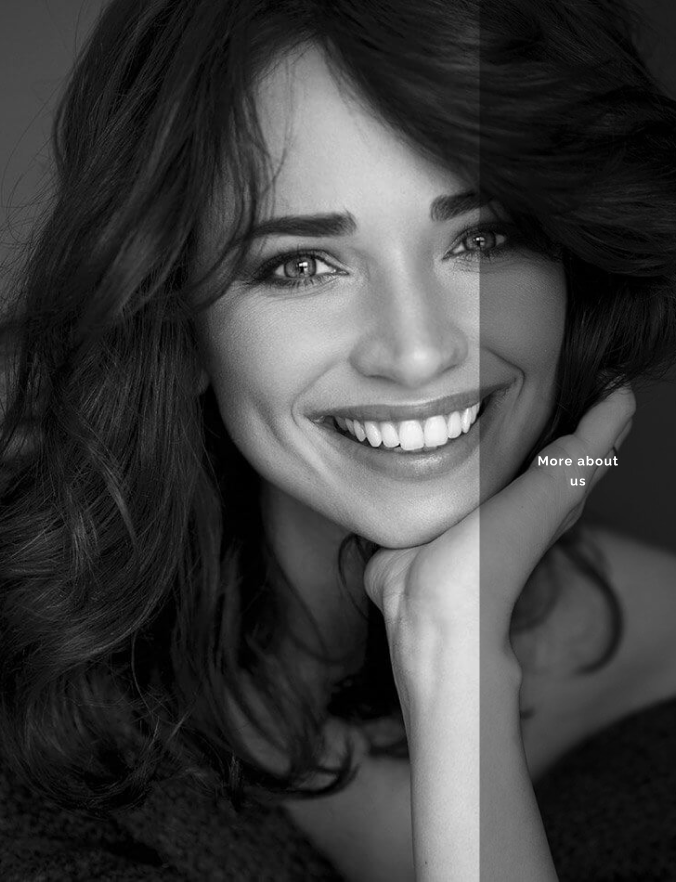
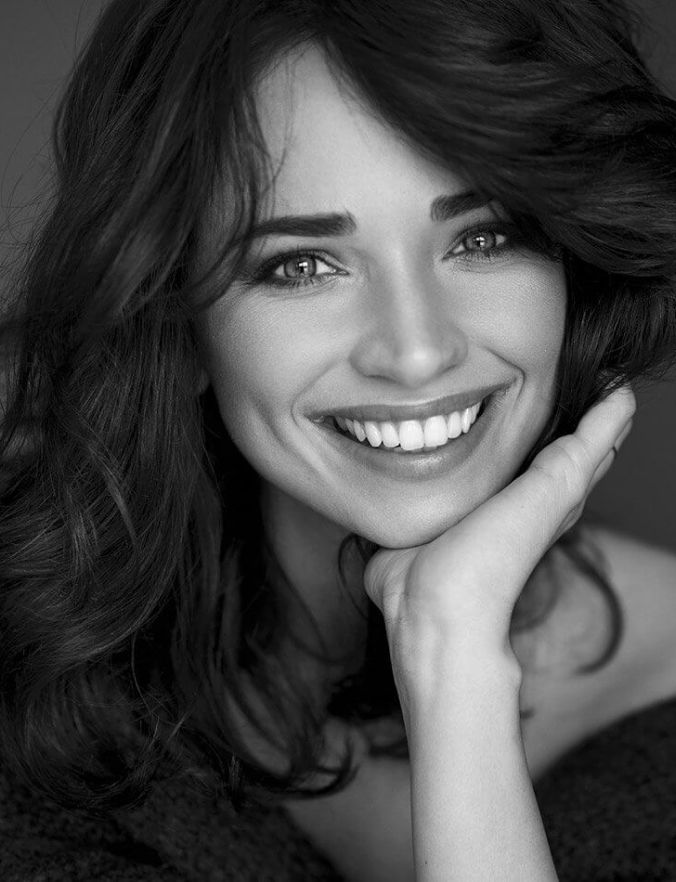
ourpractice section completed

Changed region(s): [[0.6834, 0.2143, 1.0, 1.0]]

diff --git a/index.html b/index.html
@@ -495,6 +495,62 @@
     </section>
     <!-- OUR-OFFER SECTION END -->
 
+    <!-- PRACTICE-SECTION START -->
+    <section class="ourpractice">
+      <div class="container">
+        <div class="row g-4 align-items-center">
+          <div class="col-lg-7">
+            <div class="ourpractice-details">
+              <div class="ourpractice-header">
+                <h5 class="italic-text">Our Practice</h5>
+                <h2 class="display-5 fw-bold icontitle">
+                  What Sets Us Apart
+                </h2>
+              </div>
+
+              <div class="ourpractice-body">
+                <p class="section-text">
+                  Making the patient's dream come true is not just a job for us.
+                </p>
+                
+                <p class="section-text">
+                  There are many variations of passages of Lorem Ipsum available, 
+                  but the majority have suffered alteration in some form. 
+                  There are many variations of passages of Lorem Ipsum available, 
+                  but the majority have suffered alteration in some form. 
+                  Contrary to popular belief, Lorem Ipsum is not simply random text. 
+                  It has roots in a piece of classical Latin literature from 45 BC, 
+                  making it over 2000 years old. Richard McClintock, 
+                  a Latin professor at Hampden-Sydney College in Virginia.
+                </p>
+
+                <p class="section-text">
+                  There are many variations of passages of Lorem Ipsum available, 
+                  but the majority have suffered alteration in some form. 
+                  There are many variations of passages of Lorem Ipsum available.
+                </p>
+
+                <div class="sectionlink">
+                  <a href="services.html" class="btn-border">Learn More</a>
+                </div>
+              </div>
+            </div>
+          </div>
+
+          <div class="col-lg-5">
+            <figure class="practice-thumbnail">
+              <img src="assets/images/home/practice/practice-thumbnail.png" alt="practice-thumbnail">
+            
+              <div class="thumboverlay">
+                <a href="about.html" class="morelink">More about us</a>
+              </div>
+            </figure>
+          </div>
+        </div>
+      </div>
+    </section>
+    <!-- PRACTICE-SECTION END -->
+
 
     <figure class="bodyicon">
       <svg width="185" height="372" viewBox="0 0 185 372" fill="none" xmlns="http://www.w3.org/2000/svg">

diff --git a/assets/css/style.css b/assets/css/style.css
@@ -1278,6 +1278,73 @@ table tr th, table tr td {
   transform: translate(-60%, 0rem);
 }
 
+.ourpractice-details {
+  display: flex;
+  flex-direction: column;
+  gap: 3rem;
+}
+.ourpractice-header {
+  display: flex;
+  flex-direction: column;
+  gap: 1.5rem;
+}
+.ourpractice-header h5 {
+  color: hsl(19, 89%, 54%);
+}
+.ourpractice-header .icontitle::after {
+  transform: translate(-60%, 0rem);
+}
+.ourpractice-body {
+  display: flex;
+  flex-direction: column;
+  gap: 2.5rem;
+  margin-bottom: 3rem;
+}
+@media screen and (min-width: 62rem) {
+  .ourpractice-body {
+    margin-bottom: 0;
+  }
+}
+.ourpractice-body .sectionlink {
+  max-width: 10rem;
+}
+.ourpractice .practice-thumbnail {
+  display: flex;
+  align-items: center;
+  justify-content: center;
+  width: 100%;
+  height: 100%;
+  position: relative;
+  overflow: hidden;
+}
+.ourpractice .practice-thumbnail img {
+  width: 100%;
+  height: 100%;
+}
+.ourpractice .practice-thumbnail .thumboverlay {
+  background: rgba(0, 0, 0, 0.4);
+  width: 8.125rem;
+  height: 100%;
+  position: absolute;
+  top: 0;
+  right: 0;
+  z-index: 100;
+  display: flex;
+  align-items: center;
+  justify-content: center;
+}
+.ourpractice .practice-thumbnail .thumboverlay .morelink {
+  color: hsl(0, 0%, 100%);
+  font-family: "Raleway", sans-serif;
+  font-size: 0.8125rem;
+  font-style: normal;
+  font-weight: 700;
+  transition: color 350ms ease-in-out;
+}
+.ourpractice .practice-thumbnail .thumboverlay .morelink:not([disabled]):hover {
+  color: hsl(0, 0%, 91%);
+}
+
 .errormain {
   background: url(../images/error/error-bg.png) no-repeat center center/cover;
   display: flex;

diff --git a/scss/pages/_home.scss b/scss/pages/_home.scss
@@ -135,5 +135,75 @@
       }
     }
   }
+}
 
+.ourpractice {
+  &-details {
+    @include flex-column;
+    gap: size(48);
+  }
+
+  &-header {
+    @include flex-column;
+    gap: size(24);
+
+    h5 {
+      color: $primary;
+    }
+
+    .icontitle {
+      &::after {
+        transform: translate(-60%, size(0));
+      }
+    }
+  }
+
+  &-body {
+    @include flex-column;
+    gap: size(40);
+    margin-bottom: size(48);
+
+    @include breakpoint(tab992) {
+      margin-bottom: 0;
+    }
+
+    .sectionlink {
+      max-width: size(160);
+    }
+  }
+
+  .practice-thumbnail {
+    @include flex-center;
+    @include wh100;
+    position: relative;
+    overflow: hidden;
+
+    img {
+      @include wh100;
+    }
+
+    .thumboverlay {
+      background: rgba($black, 0.40);
+      width: size(130);
+      @include h100;
+      position: absolute;
+      top: 0;
+      right: 0;
+      z-index: 100;
+      @include flex-center;
+
+      .morelink {
+        color: $white;
+        font-family: $raleway;
+        font-size: size(13);
+        font-style: normal;
+        font-weight: 700;
+        @include transitionscolor;
+
+        @include hover {
+          color: $textlight;
+        }
+      }
+    }
+  }
 }
